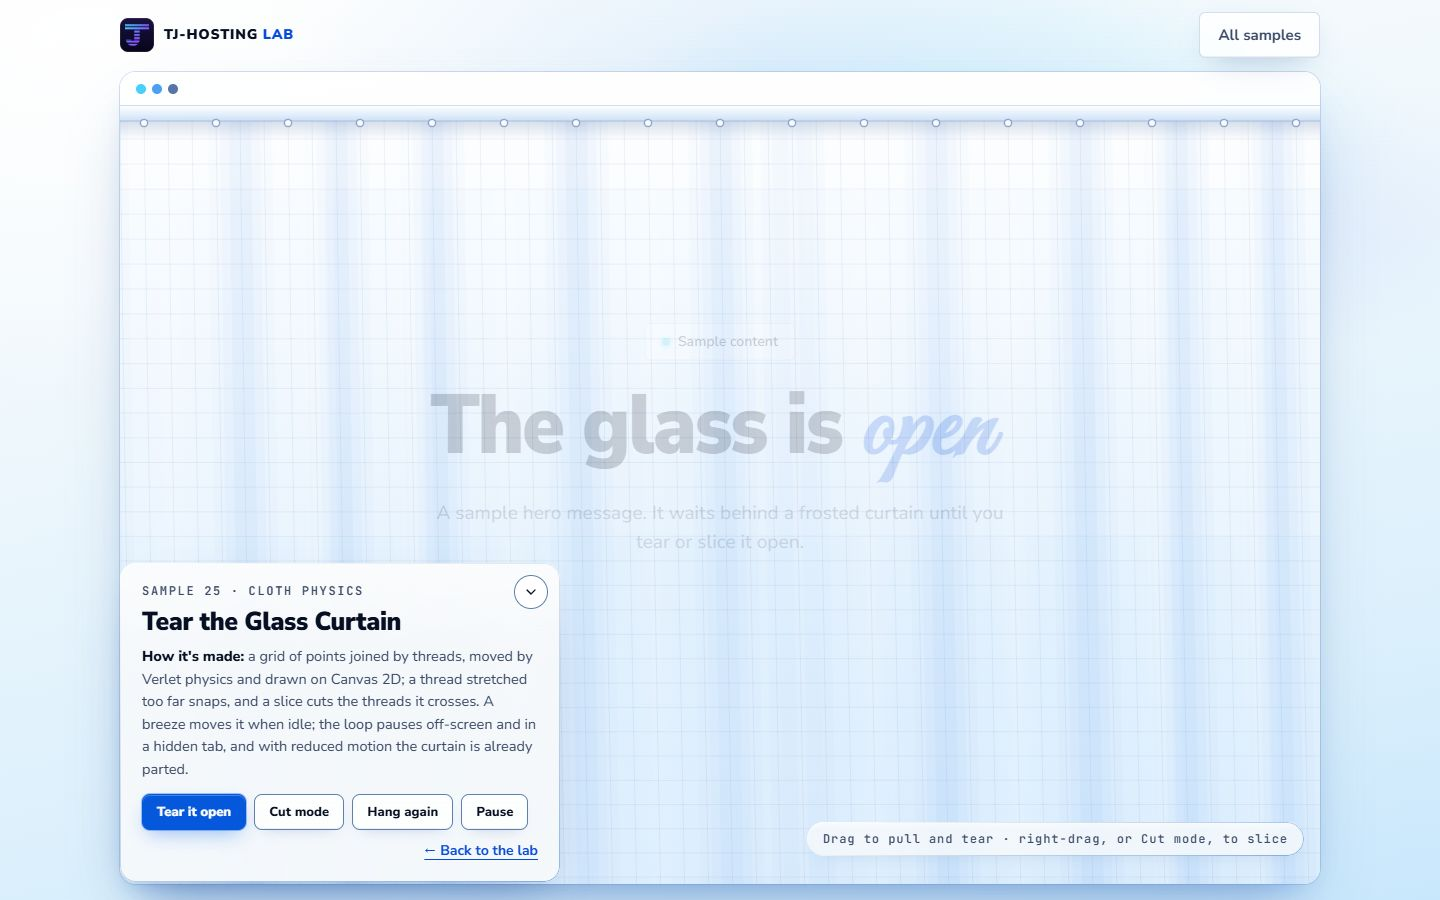
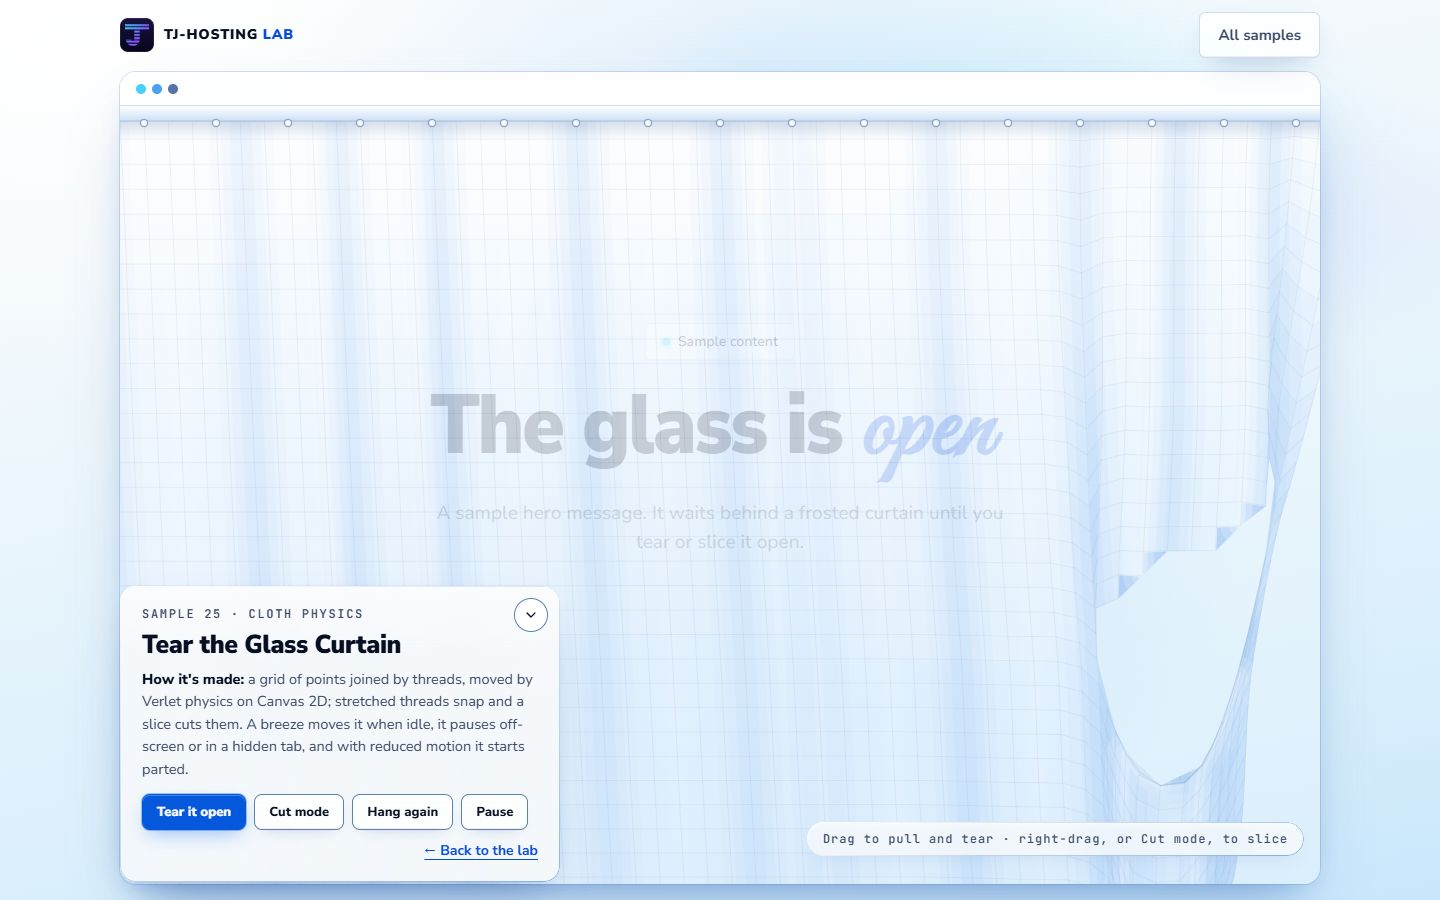
improve(lab-05): S22 curtain starts with a torn flap
A short ragged slit in from the right edge (higher on phones) lets a flap curl away, so the tear reads in the first still; Hang again mends it. Re-gated: PASS, median 16.7 ms.

diff --git a/samples/tear-the-curtain/piece.js b/samples/tear-the-curtain/piece.js
@@ -492,6 +492,27 @@ function partedStill() {
 	draw();
 }
 
+/* a flap already torn, so the idea reads at a glance: a short ragged slit in from the right edge, below the
+   message; the cloth under it sags and curls away. Hang again mends it. */
+function tornFlap() {
+	const phone = W < 560; // on a phone the panel covers the lower half, so the flap sits higher
+	const x0 = W + 6;
+	const y0 = H * (phone ? 0.3 : 0.5);
+	const x1 = W * (phone ? 0.62 : 0.8);
+	const y1 = H * (phone ? 0.45 : 0.7);
+	const N = 9;
+	let px = x0;
+	let py = y0;
+	for (let q = 1; q <= N; q++) {
+		const u = q / N;
+		const nx = x0 + (x1 - x0) * u + Math.sin(q * 2.3) * 7;
+		const ny = y0 + (y1 - y0) * u + Math.cos(q * 1.7) * 7;
+		cloth.cut(px, py, nx, ny);
+		px = nx;
+		py = ny;
+	}
+}
+
 /* ---------- start ---------- */
 
 function frame(dt) {
@@ -532,6 +553,7 @@ function start() {
 		return;
 	}
 
+	tornFlap();
 	draw();
 	const ctl = loop(canvas, (dt) => frame(dt), { name: 'tear-the-curtain' });
 
@@ -561,6 +583,7 @@ function start() {
 			blade = null;
 			resize();
 			build();
+			tornFlap();
 			if (paused) draw();
 		}, 150);
 	});

diff --git a/TASKS-lab-05.md b/TASKS-lab-05.md
@@ -147,16 +147,16 @@ None yet.
 - [P4] Titles: builders wrote Title Case ("Coral Ink Reactor"); the Lab uses sentence case ("Particle field"). Normalise every new sample's h1, `<title>`, og:title and samples.json title in one sweep.
 - [P5] S15: the dye reads murky steel-blue on navy; raise saturation and brightness toward cyan, azure and white so it reads as "liquid light". **Done 06:03Z**: dye picks mostly azure to cyan (white more often), gain 0.16 (was 0.13), tone curve 2.4 (was 2.0) and a 1.35 saturation lift in the display shader; re-gated.
 - [P4] S44: "How it's made" says "a pose table I drew"; page copy speaks for the Lab, not a builder ("a pose table drawn for each digit"). **Done 05:46Z**; no other first-person page copy found (grep).
-- [P5] S44: idle clocks show cyan hands at an angle that compete with the digits; dim or park the hands of clocks that are not part of a digit so the time reads at a glance.
+- [P5] S44: idle clocks show cyan hands at an angle that compete with the digits; dim or park the hands of clocks that are not part of a digit so the time reads at a glance. **Checked 06:05Z, no change**: in the gated still the idle clocks already show one short faint hand at 7:30 (opacity 0.26) and the digits read at a glance; only the cyan hubs show on every face, which is the design.
 - [P5] C28 (skill chips card) looked like capsule pills; queued C28b (rounded glass tags).
 - [P5] S47: the tick fires on every centre crossing (about 40 a second) at an untuned level; thin it (e.g. one voice per crossing of the middle bob group, or a rate cap) and set a gentle level. **Done 06:05Z**: one voice per frame (the middle of the bobs that crossed), at most one every 0.12 s, louder when a third of the row crosses together; peaks 0.032 / 0.07 and master 0.55 (were 0.045 / 0.09 / 0.7). Probe: 7.0 ticks a second, no errors; re-gated.
 - [P5] S10: the word sits in a mostly empty screen; add faint ambient dithered currents across the field so the whole window lives.
 - [P5] S46: the drawn trail is thin and faint on the sky; bolder royal trail with a brighter pen tip. **Done 06:01Z**: trail 4.2 px (3.4 on phones, was 2.8 / 2.3), its faint end at 0.24 alpha (was 0.1), a cyan halo under the pen tip; re-gated 16.7 ms.
 - [P5] S26: the night theme never shows unless someone pulls; an idle pull every 20 s or so would show the twist at a glance. **Done 05:48Z**: first self-pull after 9 s, then every 20 s; a grab or pull restarts the count. Probe: night at about 10 s, day again at about 30 s, no errors; re-gated 16.7 ms.
 - [P5] S36: at rest the beams are often between runs; keep at least two in flight so the idle hub always shows light moving. **Done 05:53Z**: the source's ease-out parked each light under its tile for most of its run and the six beams ran in phase; now a gentle ease-in-out, staggered first runs, and at least four beams on their way at once (probe: 3-4 lights in each of four stills over 6 s). Re-gated 16.7 ms.
-- [P5] S22: the curtain is subtle in a still; stronger folds or a corner already torn so the twist reads at a glance.
-- [P5] C04 (glitch card) reads as a stacked block; regenerate with clearer offset strips if the budget allows.
-- [P5] C07 (slime tray) and C06 (petri dish) have similar silhouettes on the home; regenerate C07 as a different object if the budget allows.
+- [P5] S22: the curtain is subtle in a still; stronger folds or a corner already torn so the twist reads at a glance. **Done 06:08Z**: the curtain now starts with a short ragged slit in from the right edge (higher on phones), so a curled flap and a gap show in the first still; Hang again mends it. Re-gated 16.7 ms.
+- [P5] C04 (glitch card) reads as a stacked block; regenerate with clearer offset strips if the budget allows. Queued C04b 06:05Z.
+- [P5] C07 (slime tray) and C06 (petri dish) have similar silhouettes on the home; regenerate C07 as a different object if the budget allows. Queued C07b (a hexagonal plaque) 06:05Z.
 - [P4] OGL samples (S55, S57) import `vendor/ogl@1.0.11/src/index.js`, which pulls 72 module files; import only the core and extras modules used. **Done 05:42Z**: 26 and 27 files now; both re-gated (16.7 ms).
 - [P4] S57: the phone chips read lowercase "stone / leather / metal"; use sentence case. **Done 05:42Z.**
 - [P5] S57: the leather texture has a visible vertical seam at the centre; regenerate A57 leather (one Codex attempt).

diff --git a/evidence/lab-05/samples/tear-the-curtain/check.md b/evidence/lab-05/samples/tear-the-curtain/check.md
@@ -1,34 +1,34 @@
 # check-sample: tear-the-curtain — PASS
 
-2026-10-28T03:28:35.041Z · Chromium WebGL: ANGLE (AMD, AMD Radeon (TM) Graphics (0x000015E7) Direct3D11 vs_5_0 ps_5_0, D3D11) · Firefox: not run (browserType.launch: spawn UNKNOWN)
+2026-10-28T06:07:25.764Z · Chromium WebGL: ANGLE (AMD, AMD Radeon (TM) Graphics (0x000015E7) Direct3D11 vs_5_0 ps_5_0, D3D11) · Firefox: not run (browserType.launch: spawn UNKNOWN)
 
 ## Notes
 - loads 9 local files: samples/tear-the-curtain/index.html, css/glass.css, css/lab.css, css/sample.css, samples/tear-the-curtain/piece.css, js/early.js, samples/tear-the-curtain/piece.js, js/lab.js, samples/tear-the-curtain/cloth.js
 - Chromium 141.0.7390.37, WebGL renderer: ANGLE (AMD, AMD Radeon (TM) Graphics (0x000015E7) Direct3D11 vs_5_0 ps_5_0, D3D11)
-- frame time: median 16.7 ms, p95 16.7 ms at 1440
+- frame time: median 16.7 ms, p95 16.8 ms at 1440
 - Firefox: not run (browserType.launch: spawn UNKNOWN)
 
 ## Motion
 - reduced motion: {"anims":[],"loops":[],"rafPerSecond":0}
 - hidden tab: {"movingBefore":true,"hiddenRafIn1500ms":0,"hiddenAnims":[],"hiddenLoops":[],"resumed":true}
-- frame time: {"median":16.7,"p95":16.7,"frames":301} (gpu GL)
+- frame time: {"median":16.7,"p95":16.8,"frames":289} (gpu GL)
 
 ## Shell contrast (Chromium)
 width | selector | # | polarity | text | worst behind | ratio | need
 ---|---|---|---|---|---|---|---
-1440 | .sample-info .eyebrow | 0 | dark | rgb(59, 74, 102) | rgb(247, 249, 252) | 8.45 | 4.5
+1440 | .sample-info .eyebrow | 0 | dark | rgb(59, 74, 102) | rgb(246, 249, 251) | 8.43 | 4.5
 1440 | .sample-info h1 | 0 | dark | rgb(7, 16, 34) | rgb(244, 247, 250) | 17.66 | 3
-1440 | .sample-info .how | 0 | dark | rgb(59, 74, 102) | rgb(242, 246, 249) | 8.20 | 4.5
+1440 | .sample-info .how | 0 | dark | rgb(59, 74, 102) | rgb(242, 245, 249) | 8.15 | 4.5
 1440 | .controls .back | 0 | dark | rgb(6, 75, 219) | rgb(240, 244, 249) | 6.26 | 4.5
 1440 | .controls .btn | 0 | light | rgb(255, 255, 255) | rgb(5, 88, 220) | 6.11 | 4.5
 1440 | .controls .btn | 1 | dark | rgb(7, 16, 34) | rgb(251, 252, 252) | 18.47 | 4.5
 1440 | .controls .btn | 2 | dark | rgb(7, 16, 34) | rgb(251, 252, 252) | 18.47 | 4.5
 1440 | .controls .btn | 3 | dark | rgb(7, 16, 34) | rgb(251, 252, 252) | 18.47 | 4.5
-1440 | .hint | 0 | dark | rgb(59, 74, 102) | rgb(237, 244, 249) | 8.02 | 4.5
+1440 | .hint | 0 | dark | rgb(59, 74, 102) | rgb(235, 243, 250) | 7.95 | 4.5
 375 | .sample-info .eyebrow | 0 | dark | rgb(59, 74, 102) | rgb(247, 249, 251) | 8.44 | 4.5
 375 | .sample-info h1 | 0 | dark | rgb(7, 16, 34) | rgb(244, 247, 250) | 17.66 | 3
 375 | .sample-info .how | 0 | dark | rgb(59, 74, 102) | rgb(242, 245, 249) | 8.15 | 4.5
-375 | .controls .back | 0 | dark | rgb(6, 75, 219) | rgb(242, 246, 249) | 6.36 | 4.5
+375 | .controls .back | 0 | dark | rgb(6, 75, 219) | rgb(241, 245, 249) | 6.31 | 4.5
 375 | .controls .btn | 0 | light | rgb(255, 255, 255) | rgb(5, 88, 220) | 6.11 | 4.5
 375 | .controls .btn | 1 | dark | rgb(7, 16, 34) | rgb(251, 252, 252) | 18.47 | 4.5
 375 | .controls .btn | 2 | dark | rgb(7, 16, 34) | rgb(250, 251, 252) | 18.32 | 4.5
